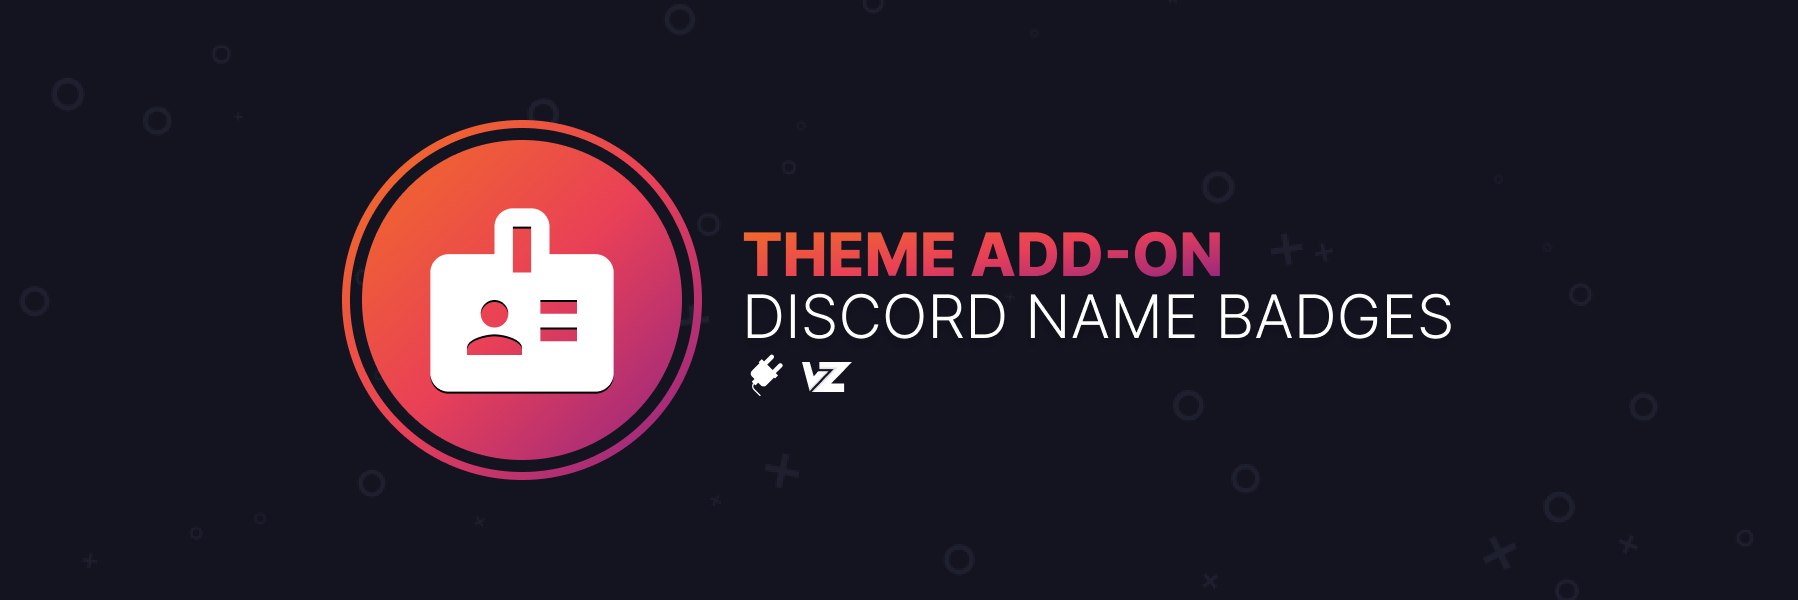
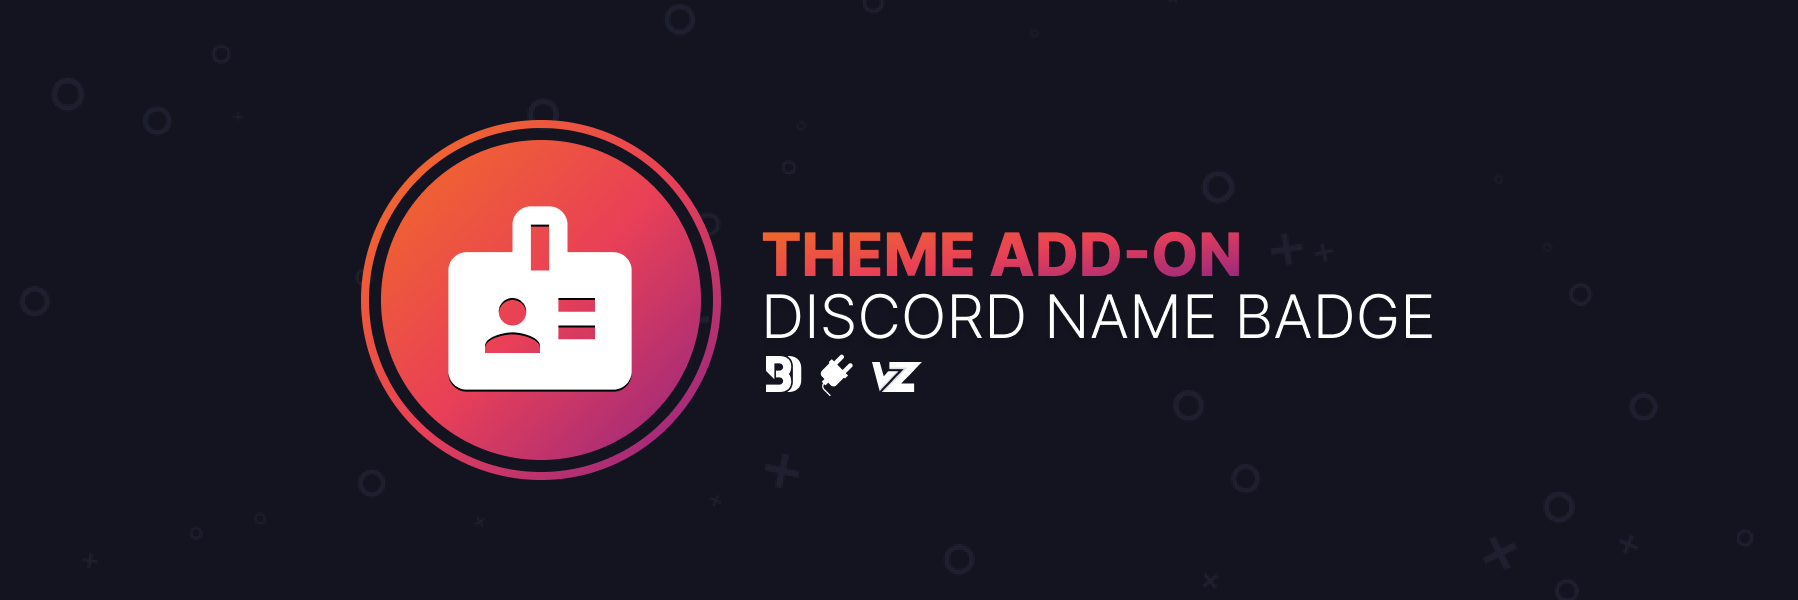
changes

Changed region(s): [[0.1869, 0.18, 0.8098, 0.81]]

diff --git a/README.md b/README.md
@@ -41,6 +41,12 @@ I see you have your badge, congrats! Installation time: for **[Powercord](http:/
 git clone https://github.com/Discord-Theme-Addons/discord-name-badges
 ```
 
+#### For BetterDiscord:
+In order for this to work on BetterDiscord, you need DevilBro's **[Plugin Library](https://github.com/mwittrien/BetterDiscordAddons/tree/master/Library/)**. I don't reccomend using this as it can cause performance issues, due to it not being optimized that well. Proceed at your own risk.
+- [Direct Download](https://betterdiscord.net/ghdl?id=3555)
+- [View Source](https://raw.githack.com/Discord-Theme-Addons/discord-name-badges/main/src/main/betterdiscord/NameBadges.theme.css)
+
+
 ## Credits 
 Thank you to [botato](https://github.com/bototo2) (aka mr cute panda) for helping me learn a bit more CSS to make it appear on at least 1 of the user modals.
 
